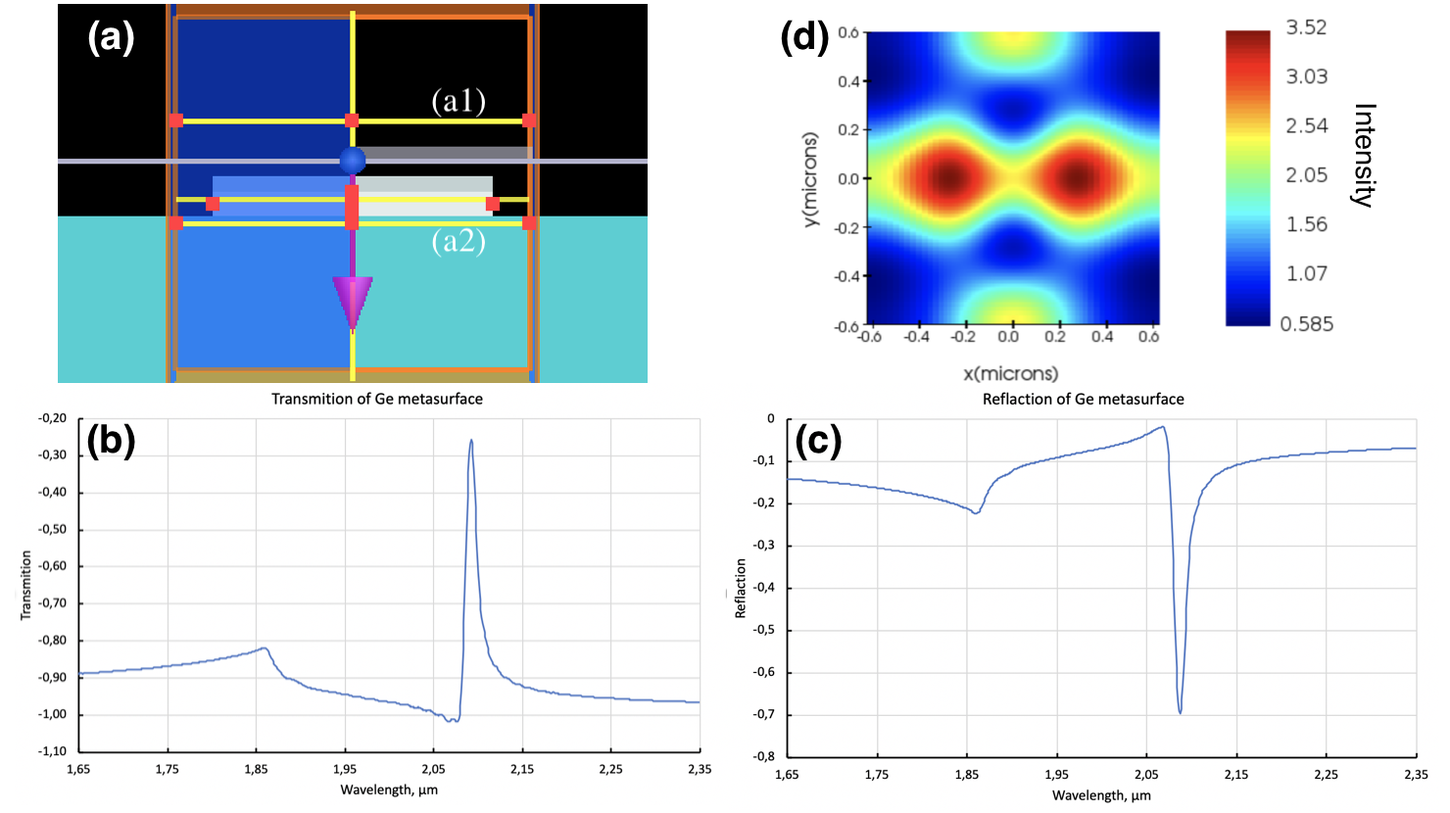
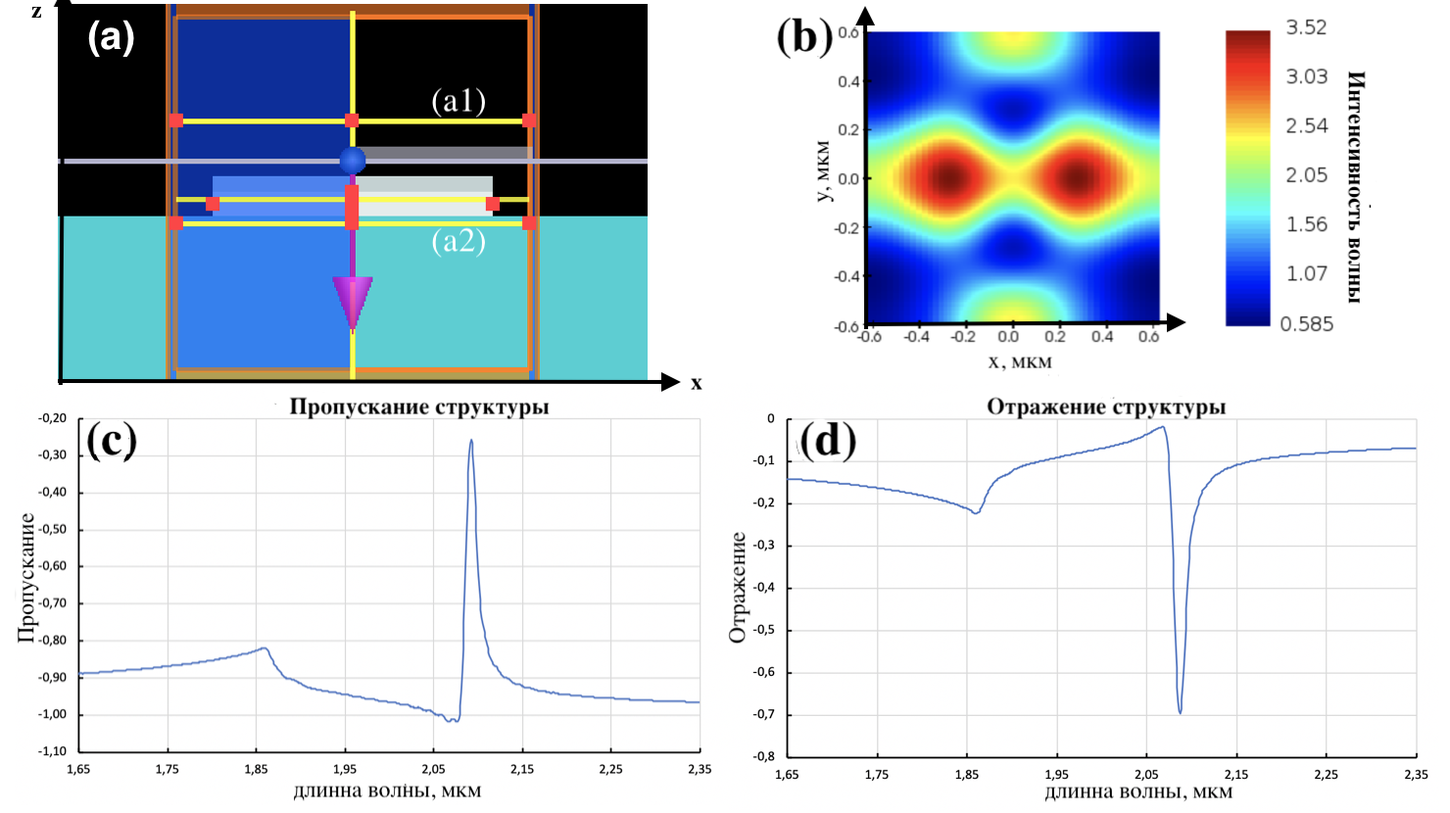
preprint5

diff --git a/chapter1.tex b/chapter1.tex
@@ -37,7 +37,7 @@ P(E) = \chi^{(1)}E + \chi^{(2)}E^2 +\chi^{(3)}E^3\dots
 \begin{figure}[h]
 	\centering
 	\includegraphics[width=0.7\linewidth]{images/classific.png}
-	\caption{Классификация нелинейных оптических эффектов}
+	\caption{Классификация нелинейных оптических эффектов \cite{mifi2015}}
 	\label{classific}
 \end{figure}
 К \textit{параметрическим явлениям} относятся:
@@ -61,7 +61,7 @@ P(E) = \chi^{(1)}E + \chi^{(2)}E^2 +\chi^{(3)}E^3\dots
 
 \subsection*{Генерация второй оптической гармоники} 
 \hspace{2mm}
-Обсудим подробнее эффект удвоения частоты света в кристалле — генерации второй оптической гармоники \cite{achmanov2}. Данный эффект состоит в том, что под действием мощного лазерного излучения в нелинейном кристалле возникает излучение на удвоенной частоте.
+Обсудим подробнее эффект удвоения частоты света в кристалле — генерации второй оптической гармоники \cite{achmanov2}. Данный эффект состоит в том, что под действием мощного лазерного излучения в нелинейном кристалле возникает излучение2 на удвоенной частоте.
 \\
 \hspace{2mm}
 Предположим, что на квадратично-нелинейную среду воздействует монохроматическое поле. Тогда нелинейная поляризация второго порядка будет пропорциональна полю во второй степени:
@@ -71,8 +71,8 @@ P(E) = \chi^{(1)}E + \chi^{(2)}E^2 +\chi^{(3)}E^3\dots
 
 \begin{figure}[h]
 	\centering
-	\includegraphics[width=0.7\linewidth]{images/shg.png}
-	\caption{Схематическое представление нелинейно-оптических процессов второго порядка.}
+	\includegraphics[width=0.6\linewidth]{images/shg.png}
+	\caption{Схематическое представление нелинейно-оптических процессов второго порядка. \cite{mifi2015}}
 	\label{sghPictr}
 \end{figure}
 
@@ -84,9 +84,9 @@ P(E) = \chi^{(1)}E + \chi^{(2)}E^2 +\chi^{(3)}E^3\dots
 Но обычно нелинейный член третьего порядка много меньше нелинейного члена второго порядка, соответственно  эффект генерации третей гармоники в кубически-нелинейной среде очень мал. На практике третью гармонику лазерного излучения получают путем последовательного удвоения частоты $\omega +  \omega \rightarrow 2\omega$, а затем сложения волн первой и второй гармоники: $\omega +  2\omega \rightarrow 3\omega$ в квадратично-нелинейной среде.
 \begin{figure}[h]
 	\centering
-	\includegraphics[width=0.6\linewidth]{images/thg.png}
-	\caption{ Генерация третьей гармоники  и переизлучение на исходной частоте (самовоздействие света)}
-	\label{thg1}
+	\includegraphics[width=0.4\linewidth]{images/thg.png}
+	\caption{ Генерация третьей гармоники  и переизлучение на исходной частоте (самовоздействие света) \cite{mifi2015}}
+	\label{thg12}
 \end{figure}
 
 \section{Оптические резонансы полупроводниковых наноструктур}
@@ -101,37 +101,37 @@ P(E) = \chi^{(1)}E + \chi^{(2)}E^2 +\chi^{(3)}E^3\dots
 \begin{figure}[h!]
 	\centering
 	\includegraphics[width=0.7\linewidth]{images/fig1.png}
-	\caption{\textbf{(a)}Эффективность рассеяния (безразмерное отношение сечения рассеяния к геометрическому сечению частицы) в зависимости от диэлектрической проницаемости $\varepsilon$ (частицы без потерь, q = 0,5) для плазмонных ($\varepsilon$  < 0) и диэлектрических ( $\varepsilon$ > 0) материалов. Сокращения для резонансов: ed - электрический диполь; eq - электрический квадруполь; md - магнитный диполь; mq - магнитный квадруполь. \textbf{(b)} Эффективность рассеяния диэлектрической частицы без потерь (цветная шкала справа) как функция показателя преломления n и параметра размера. \textbf{(c)} Иллюстрация структур электрического и магнитного поля для различных электрических и магнитных резонансов, поддерживаемых сферической диэлектрической частицей. Графики взяты с \cite{kuznetsov2016optically}}
+	\caption{\textbf{(a)}Эффективность рассеяния (безразмерное отношение сечения рассеяния к геометрическому сечению частицы) в зависимости от диэлектрической проницаемости $\varepsilon$ (частицы без потерь, q = 0,5) для плазмонных ($\varepsilon$  < 0) и диэлектрических ( $\varepsilon$ > 0) материалов. Сокращения для резонансов: ed - электрический диполь; eq - электрический квадруполь; md - магнитный диполь; mq - магнитный квадруполь. \textbf{(b)} Эффективность рассеяния диэлектрической частицы без потерь (цветная шкала справа) как функция показателя преломления n и параметра размера. \textbf{(c)} Иллюстрация структур электрического и магнитного поля для различных электрических и магнитных резонансов, поддерживаемых сферической диэлектрической частицей. \cite{kuznetsov2016optically}}
 	\label{fig1}
 \end{figure}
 \hspace*{2mm}
 Чтобы проиллюстрировать фундаментальные свойства рассеяния света наночастицами, рассмотрим случай сферической частицы, освещенной плоской волной, для которой существует точное аналитическое решение уравнений Максвелла. Согласно теории Ми \cite{absorbScattLight}, металлические и диэлектрические сферические частицы могут обладать сильными резонансами рассеяния (рис. \ref{fig1}a). В случае немагнитных материалов их свойства рассеяния зависят только от двух параметров: диэлектрической проницаемости $\varepsilon$  и размерного параметра q ($q = 2\pi R/\lambda$). Различие между металлическими и диэлектрическими частицами заключается в знаке диэлектрической проницаемости, которая является отрицательной для металлов и положительной для диэлектриков. Небольшие металлические сферы (q < 1) создают только локализованные поверхностные плазмонные резонансы электрического типа:  дипольные, квадрупольные и т.д., в то время как их магнитный отклик остается практически незначительным из-за малого поля внутри сферы (рис. \ref{fig1}a).  
 \\
 \hspace*{2mm}
-Чтобы воспроизвести "ощутимый" магнитный отклик от металлических структур, геометрия частицы должна быть другой. Например, резонатор с вырезанным кольцом \cite{pendry1999magnetism} работает аналогично LC-схеме (цепи индуктор-конденсатор), в которой усиление магнитного поля происходит в центре него. Для диэлектрических наночастиц наблюдается как электрический, так и магнитный отклики (рис. \ref{fig1}a). Резонансный магнитно-дипольный отклик является результатом взаимодейсвия входящего света с круговыми токами смещения электрического поля частицы. Это происходит, когда длина волны внутри частицы становится сопоставимой с диаметром частицы $2R \approx \lambda/n$ (рис. \ref{fig1}b) \cite{kuznetsov2016optically}. 
+Чтобы воспроизвести "ощутимый" магнитный отклик от металлических структур, геометрия частицы должна быть другой. Например, резонатор с вырезанным кольцом  работает аналогично LC-схеме (цепи индуктор-конденсатор), в которой усиление магнитного поля происходит в центре него. Для диэлектрических наночастиц наблюдается как электрический, так и магнитный отклики (рис. \ref{fig1}a). Резонансный магнитно-дипольный отклик является результатом взаимодейсвия входящего света с круговыми токами смещения электрического поля частицы. Это происходит, когда длина волны внутри частицы становится сопоставимой с диаметром частицы $2R \approx \lambda/n$ (рис. \ref{fig1}b) \cite{kuznetsov2016optically}. 
 \\
 \hspace*{2mm}
 Полевая структура четырех основных резонансных мод диэлектрических частицах с высоким индексом приломления показана на рисунке \ref{fig1}c. На длине волны магнитного резонанса возбужденная магнитно-дипольная мода диэлектрической сферы с высоким показателем может вносить основной вклад в эффективность рассеяния, превосходя моды других мультиполей на порядки величины.
 \\
 \hspace*{2mm}
-Из теории Ми следует, что максимально достижимая эффективность рассеяния для конкретного многополярного возбуждения субволновой частицы зависит только от резонансной частоты, а не от типа материала \cite{schuller2009general}. Это говорит о том, что многие плазмонные эффекты, наблюдаемые при рассеянии света металлическими наночастицами, могут быть реализованы с помощью диэлектрических наночастиц с высоким индексом преломления. На рисунке \ref{fig1}b показано масштабирование различных резонансов по отношению к показателю преломления n. При n > 2 все основные мультиполи хорошо определены, и их спектральные положения соответствуют фиксированному отношению длины волны внутри частицы к ее диаметру. Эффективность рассеяния всех мультиполей также увеличивается с ростом n \cite{articleOptSi}.
+Из теории Ми следует, что максимально достижимая эффективность рассеяния для конкретного многополярного возбуждения субволновой частицы зависит только от резонансной частоты, а не от типа материала \cite{schuller2009general}. Это говорит о том, что многие плазмонные эффекты, наблюдаемые при рассеянии света металлическими наночастицами, могут быть реализованы с помощью диэлектрических наночастиц с высоким индексом преломления. На рисунке \ref{fig1}b показано масштабирование различных резонансов по отношению к показателю преломления n. При n > 2 все основные мультиполи хорошо определены, и их спектральные положения соответствуют фиксированному отношению длины волны внутри частицы к ее диаметру. Эффективность рассеяния всех мультиполей также увеличивается с ростом n.
 
 \subsection*{Наблюдение оптических магнитных резонансов в диэлектрических наночастицах.}
 \hspace*{2mm}
-Сильные оптически индуцированные магнитные дипольные резонансы в диэлектрических наночастицах с высоким индексом преломления могут быть достигнуты не только для сфер, но и для сфероидов \cite{articleDirVi}, \cite{optScatShper}, дисков и цилиндров \cite{multLightScat}, колец \cite{contrMagnModes} и многих других геометрий \cite{nearInfrMR}. Это обеспечивает важные возможности для создания разнообразных полностью диэлектрических наноструктур с желаемыми спектральными положениями резонансов. Спектральные положения как электрического, так и магнитного дипольного резонансов могут настраиваться независимо путем изменения формы частиц и расстояния между ними \cite{optScatDeilectrHightIndex}.
+Сильные оптически индуцированные магнитные дипольные резонансы в диэлектрических наночастицах с высоким индексом преломления могут быть достигнуты не только для сфер, но и для сфероидов \cite{articleDirVi}, дисков и цилиндров, колец и многих других геометрий. Это обеспечивает важные возможности для создания разнообразных полностью диэлектрических наноструктур с желаемыми спектральными положениями резонансов. Спектральные положения как электрического, так и магнитного дипольного резонансов могут настраиваться независимо путем изменения формы частиц и расстояния между ними.
 \\
 \hspace*{2mm}
-Кремниевые (Si) наносферы с размерами от 100 до 300 нм поддерживают сильные магнитные и электрические дипольные резонансы в видимой и ближней ИК областях спектра (рис. \ref{fig2}c). 
+Кремниевые (Si) наносферы с размерами от 100 нм до 300 нм поддерживают сильные магнитные и электрические дипольные резонансы в видимой и ближней ИК областях спектра (рис. \ref{fig2}c). 
  \begin{figure}[h]
 	\centering
-	\includegraphics[width=1\linewidth]{images/graph1.png}
+	\includegraphics[width=0.5\linewidth]{images/graph1.png}
 	\caption{\textbf{(a, b)} Изображения в темнопольном оптическом микроскопе (слева), изображения на сканирующем электронном микроскопе (SEM) (справа)  сферических наночастиц Si с приблизительными диаметрами 100 нм \textbf{(a)} 140 нм \textbf{(b)} \cite{kuznetsov2012luk}. \textbf{(c)} Результат моделирования оптического магнитного отклика наночастиц кремния  диаметром 100 нм. (синий график) и 140 нм. (оранжевый график).  Сокращения для резонансов: ed - электрический диполь; md - магнитный диполь}
 	\label{fig2}
 \end{figure}
 Экспериментальная демонстрация электрических и магнитных дипольных резонансов на видимых длинах волн впервые была представлена для сферических наночастиц Si, полученных с помощью фемтосекундной лазерной абляции на кремниевых и стеклянных подложках \cite{kuznetsov2012luk}. 
 \\
 \hspace*{2mm}
-Различные цвета, наблюдаемые на темнопольных микроскопах (рис. \ref{fig2}a, b), соответствуют магнитным дипольным резонансам почти идеальных сферических наночастиц Si с размерами от 100 до 200 нм \cite{kuznetsov2012luk}.  Помимо кремния, полупроводники группы IV и группы III-V с показателями преломления выше 2 могут иметь аналогичные оптические свойства в зависимости от их поглощения и показателя преломления в конкретном диапазоне длин волн. Например, магнитные и электрические дипольные резонансы недавно были экспериментально обнаружены в нанодисках арсенида галлия (GaAs) в видимом спектре \cite{person2013demonstration}.
+Различные цвета, наблюдаемые на темнопольных микроскопах (рис. \ref{fig2}a, b), соответствуют магнитным дипольным резонансам почти идеальных сферических наночастиц Si с размерами от 100 нм до 200 нм \cite{kuznetsov2012luk}.  Помимо кремния, полупроводники группы IV и группы III-V с показателями преломления выше 2 могут иметь аналогичные оптические свойства в зависимости от их поглощения и показателя преломления в конкретном диапазоне длин волн. Например, магнитные и электрические дипольные резонансы недавно были экспериментально обнаружены в нанодисках арсенида галлия (GaAs) в видимом спектре \cite{person2013demonstration}.
 
 
 \section{Нелинейные оптические резонансны диэлектрических наноструктур}
@@ -180,7 +180,7 @@ P(E) = \chi^{(1)}E + \chi^{(2)}E^2 +\chi^{(3)}E^3\dots
 Первый пример нецентросимметричной поверхности состоял из массива L-образных наночастиц. Подобные массивы L-образных частиц золота были исследованы на способность генерации второй гармоники (рис. \ref{mettals}а). Было обнаружено, что эффективность сильно зависит от упорядочения частиц в решетке, причем самые сильные сигналы возникают, когда основная длина волны находится в плазмонном резонансе структуры. Резонаторы с расщепленным кольцом \cite{linden2012collective} (рис. \ref{mettals}b) имеют симметрию, аналогичную L-образным наночастицам. Плазмонные резонансы можно интерпретировать как имеющие электрический или магнитный характер, хотя сами составляющие материалы являются немагнитными. 
 \\
 \hspace*{2mm}
-Генерация второй гармоники также обсуждалась для центросимметричных образцов, включая массивы наночастиц \cite{mcmahon2006second} и наноапертур. Во всех случаях наиболее сильная вторая гармоника была обнаружена, когда, по крайней мере, основной пучок или пучок ГВГ распространялся под косым углом падения. Вот, например, в недавней работе были продемонстрированы более совершенные плазмонные поверхности с улучшенными нелинейными свойствами. Кажущаяся центросимметрия диэлектрических решеток была нарушена для ГВГ из-за освещения металла под косым углом \cite{genevet2010large} (Рис. \ref{mettals}d). 
+Генерация второй гармоники также обсуждалась для центросимметричных образцов, включая массивы наночастиц и наноапертур. Во всех случаях наиболее сильная вторая гармоника была обнаружена, когда, по крайней мере, основной пучок или пучок ГВГ распространялся под косым углом падения. Вот, например, в недавней работе были продемонстрированы более совершенные плазмонные поверхности с улучшенными нелинейными свойствами. Кажущаяся центросимметрия диэлектрических решеток была нарушена для ГВГ из-за освещения металла под косым углом \cite{genevet2010large} (Рис. \ref{mettals}d). 
 \\
 \hspace*{2mm}
 Наноструктурированные плазмонные поверхности также используются для усиления отклика известных нелинейных материалов. Один интересный образец состоял из массивов коаксиальных дырок в золотой пленке толщиной 70 нм на подложке из арсенида галлия (GaAs)  \cite{fan2006second}. Структуры демонстрировали отклик второй гармоники вблизи среза коаксиальной волноводной моды.
@@ -215,7 +215,7 @@ P(E) = \chi^{(1)}E + \chi^{(2)}E^2 +\chi^{(3)}E^3\dots
 Такие конструкции концептуально аналогичны метаповерхностям Гюйгенса, предложенным в плазмонике \cite{pfeiffer2014efficient}, но они имеют гораздо более высокую эффективность пропускания из-за меньших потерь в прозрачных диэлектрических материалах. Недавно были продемонстрированы экспериментально мета-поверхности видимого диапазона на основе кремния с резонансным пропусканием более 85\%. Эти устройства имеют толщину всего 130 нм, что соответствует менее чем одной пятой длины волны в свободном пространстве, и способны контролировать волновой фронт света и выполнять отклонение луча с эффективностью передачи, близкой к 50\% (рис. \ref{nonliner:matasurf1}, b и c). Аналогичные концепции были также использованы для достижения эффективной генерации вихревого пучка (рис. \ref{nonliner:matasurf1}d). 
 \\
 \hspace*{2mm}
-Диэлектрические поверхности также могут быть использованы в качестве практически идеальных отражателей \cite{moitra2015large},\cite{nearRefcLayer}.  Эффект отражения возникает в результате когерентного взаимодействия магнитных или электрических диполей, возбуждаемых внешним излучением в каждой наночастице. Недавний эксперимент продемонстрировал очень высокий коэффициент отражения (до 99,7\%) в ближней ИК-области спектра от плотного массива наночастиц Si \cite{moitra2015large}. Такое поведение с высоким коэффициентом отражения концептуально аналогично тому, которое наблюдалось ранее в высококонтрастных решетках с субволновой длиной. 
+Диэлектрические поверхности также могут быть использованы в качестве практически идеальных отражателей \cite{moitra2015large}.  Эффект отражения возникает в результате когерентного взаимодействия магнитных или электрических диполей, возбуждаемых внешним излучением в каждой наночастице. Недавний эксперимент продемонстрировал очень высокий коэффициент отражения (до 99,7\%) в ближней ИК-области спектра от плотного массива наночастиц Si \cite{moitra2015large}. Такое поведение с высоким коэффициентом отражения концептуально аналогично тому, которое наблюдалось ранее в высококонтрастных решетках с субволновой длиной. 
 \\
 \hspace*{2mm}
 Другим примером является обобщенный эффект Брюстера. В отличие от обычного эффекта Брюстера, который ограничен p-поляризованным падением и углами выше $45^\circ$ (угол Брюстера ниже $45^\circ$ всегда сопровождается полным внутренним отражением под большими углами), обобщенный эффект Брюстера может быть достигнут для любой поляризации (как p, так и s) и любой угол падения (как ниже, так и выше $45^\circ$ без полного внутреннего отражения) (рис. \ref{nonliner:matasurf1}e). Оно возникает в результате интерференции электрических и магнитных резонансов в решетке и подавления их рассеяния в направлении отражения.

diff --git a/chapter2.tex b/chapter2.tex
@@ -1,24 +1,24 @@
 \section{Оптический отклик полупроводниковой метаповерхности на основе германия.}
 
 \subsection{Постановка задачи. Параметры образца.}
-В полупроводниковых наноструктурах с субволновым периодом решетки ожидаться резонанс в следствии многократного рассеяния  волны накачки \cite{mftiOpt}. В данной структуре (рис. \ref{base1}) ожидался резонанс в конце ИК диопазона.
+В полупроводниковых наноструктурах с субволновым периодом решетки ожидаться резонанс в следствии многократного рассеяния  волны накачки \cite{mftiOpt}. В данной структуре (рис. \ref{base1}) ожидался резонанс в ИК диапазоне.
 
 \begin{figure}[h]
 	\centering
     \includegraphics[width=0.8\linewidth]{images/base1.png}
-	\caption{На рисунке изображен снимок метаповерхности. В качестве подложки используется $CaF_2$. На подложке  горизонтальным  0,75мкм и вертикальным шагом 0,25мкм разположенны кирпичике германия(Ge) толщиной 0,15мкм. На верху каждого кирпичека германия расположен слой стекал ($SiO_2$) толщиной $\sim 0,1$мкм. Изображение на вставке - вид модели с верху. Цветная шкала справа показывает показатель преломления различных структур, изображенных на картинке)}
+	\caption{На рисунке изображен снимок метаповерхности. В качестве подложки используется $CaF_2$. На подложке  горизонтальным  0,75мкм и вертикальным шагом 0,25мкм расположенны кирпичике германия (Ge) толщиной 0,15мкм. На верху каждого кирпичика германия расположен слой стекал ($SiO_2$) толщиной $\sim 0,1$мкм. Изображение на вставке - вид модели с верху. Цветная шкала справа показывает показатель преломления различных структур, изображенных на картинке)}
 	\label{base1}
 \end{figure}
 
 \subsection{Исследование линейного отклика метаповерхности на основе германия}
 \hspace{2mm}
-Периодическая структура освещаться плоской волной накачки. Монитора a1(рис.  \ref{base2}а) расположен выше источника электромагнитных волн и измеряет отражение структуры (рис. \ref{1:wave_eq}c), а монитор a2(рис. \ref{base2}а) расположен ниже кирпичика германия и измеряет пропускание структуры (рис. \ref{base2}b). Резонанс можно наблюдать как на спектре пропускание(рис. \ref{base2}с) так и на отражения структуры (рис \ref{base2}с).  Из графиков видно, что резонанс достигаться на длине волны  $\lambda_{RES} \approx 2$мкм. 
+Периодическая структура освещаться плоской волной накачки. Монитор a1(рис.  \ref{base2}а) расположен выше источника электромагнитных волн и измеряет отражение структуры (рис. \ref{1:wave_eq}c), а монитор a2(рис. \ref{base2}а) расположен ниже кирпичика германия и измеряет пропускание структуры (рис. \ref{base2}b). Резонанс можно наблюдать как на спектре пропускание(рис. \ref{base2}с) так и на отражения структуры (рис \ref{base2}с).  Из графиков видно, что резонанс достигаться на длине волны  $\lambda_{RES} \approx 2$мкм. 
 \hspace{2mm}
- Вероятнее всего наблюдаемый резонанс возникает из-за геометрических особенностей метаповерхности - частицы расположины с таким периодом, что в результате многократного отражения волны накачки, генерируется квазиволновая мода, которую мы и наблюдаем в резонансе.
+ Вероятнее всего наблюдаемый резонанс возникает из-за геометрических особенностей метаповерхности - частицы расположены с таким периодом, что в результате многократного отражения волны накачки, генерируется квазиволновая мода, которую мы и наблюдаем в резонансе.
 \begin{figure}[h]
 	\centering
     \includegraphics[width=0.9\linewidth]{images/expert.png}
-	\caption{\textbf{(a)}На рисунке изображен 1 период метаповерхности. Монитор \textbf{а1}, меряющий отражение структуры, \textbf{а2} - монитор, меряющий пропускание структуры. На графиках \textbf{(b, c)} предсавленны показания этих мониторов. Резонанс достигаться при длинне волны накачки $\lambda_{RES} = 2,085$мкм. На \textbf{(d)} показано распределение электрического поля в германии во время резонанса}
+	\caption{\textbf{(a)}На рисунке изображен 1 период метаповерхности. Монитор \textbf{а1}, меряющий отражение структуры, \textbf{а2} - монитор, меряющий пропускание структуры. На графиках \textbf{ (c, d)} представлены показания этих мониторов. Резонанс достигаться при длинне волны накачки $\lambda_{RES} = 2,085$мкм. На \textbf{(b)} показано распределение электрического поля в германии во время резонанса}
 	\label{base2}
 \end{figure}
 

diff --git a/intr.tex b/intr.tex
@@ -1,6 +1,6 @@
 \\
 \hspace*{2mm}
-\underline{Нелинейная оптика} изучает процессы воздействия электромагнитной волны с веществами, у которых имеется нелинейный отклик на приложенное поле электромагнитное поле. В основе нелинейных процессов лежит  взаимодействие света с веществом на наноуровне, когда интенсивность световой волны достаточно велика и в элементарном акте поглощается начинает участвовать уже несколько фотонов. Также, при большой интенсивности световой волны  начинают возникать процессы, приводящие к изменеию исходных свойств вещества. Прогресс нелинейной оптики во многом обязан развитию лазеров, которые могут генерировать свет с большой напряжённостью электрического поля, соизмеримой с напряжённостью микроскопического поля в атомах.
+\underline{Нелинейная оптика} изучает процессы воздействия электромагнитной волны с веществами, у которых имеется нелинейный отклик на приложенное поле электромагнитное поле. В основе нелинейных процессов лежит  взаимодействие света с веществом на наноуровне, когда интенсивность световой волны достаточно велика и в элементарном акте поглощения начинает участвовать уже несколько фотонов. Также, при большой интенсивности световой волны  начинают возникать процессы, приводящие к изменению исходных свойств вещества. Прогресс нелинейной оптики во многом обязан развитию лазеров, которые могут генерировать свет с большой напряжённостью электрического поля, соизмеримой с напряжённостью микроскопического поля в атомах.
 \\
 \hspace*{2mm}
 В данной работе будут изложены основные понятия нелинейной оптики, нелинейные эффекты в резонансных полупроводниковых структурах. Будут описаны последние открытия в этой области, такие как: возбуждение различных гармоник с использованием нарушенной симметрии III-V полупроводниковых метаповерхностей Фано, генерация гармоник с использованием кремниевых нанодисков, использование диэлектрических метаповерхностей в качестве широкополосного оптического частотного смесителя и другие явления. Так-же, будут приведены результаты моделирования эксперимента, по линейному отклику периодической наноструктуры из Германия.

diff --git a/results.tex b/results.tex
@@ -3,5 +3,5 @@
 Основные результаты курсовой работы могут быть сформулированный следующим образом:
 \begin{enumerate}
 \item Было дано краткое теоретическое описание основных явлений и процессов линейной и не линейной оптики. Дана классификация эти процессов. Описаны основные нелинейно-оптические эффекты в резонансных диэлектрических и металлических наночастицах и метаповерхностях. Описан ряд экспериментов, раскрывающих данные эффекты.  Дан срез современных знаний в нелинейной оптике. 
-\item Построена модель линейного оптического отклика полупроводниковой метаповерхности на основе германия.  Получен резонанс  в  конце ИК-диапазоне на длине волны $ \lambda \approx  2$мкм. Выдвинуто предположения,  что при резонансе наблюдаться квазиволновая мода, возбуждение которой обусловлено геометрией метаповерхности.  
+\item Построена модель линейного оптического отклика полупроводниковой метаповерхности на основе германия.  Получен резонанс в ИК-диапазоне на длине волны $ \lambda \approx  2$мкм.  
 \end{enumerate}
